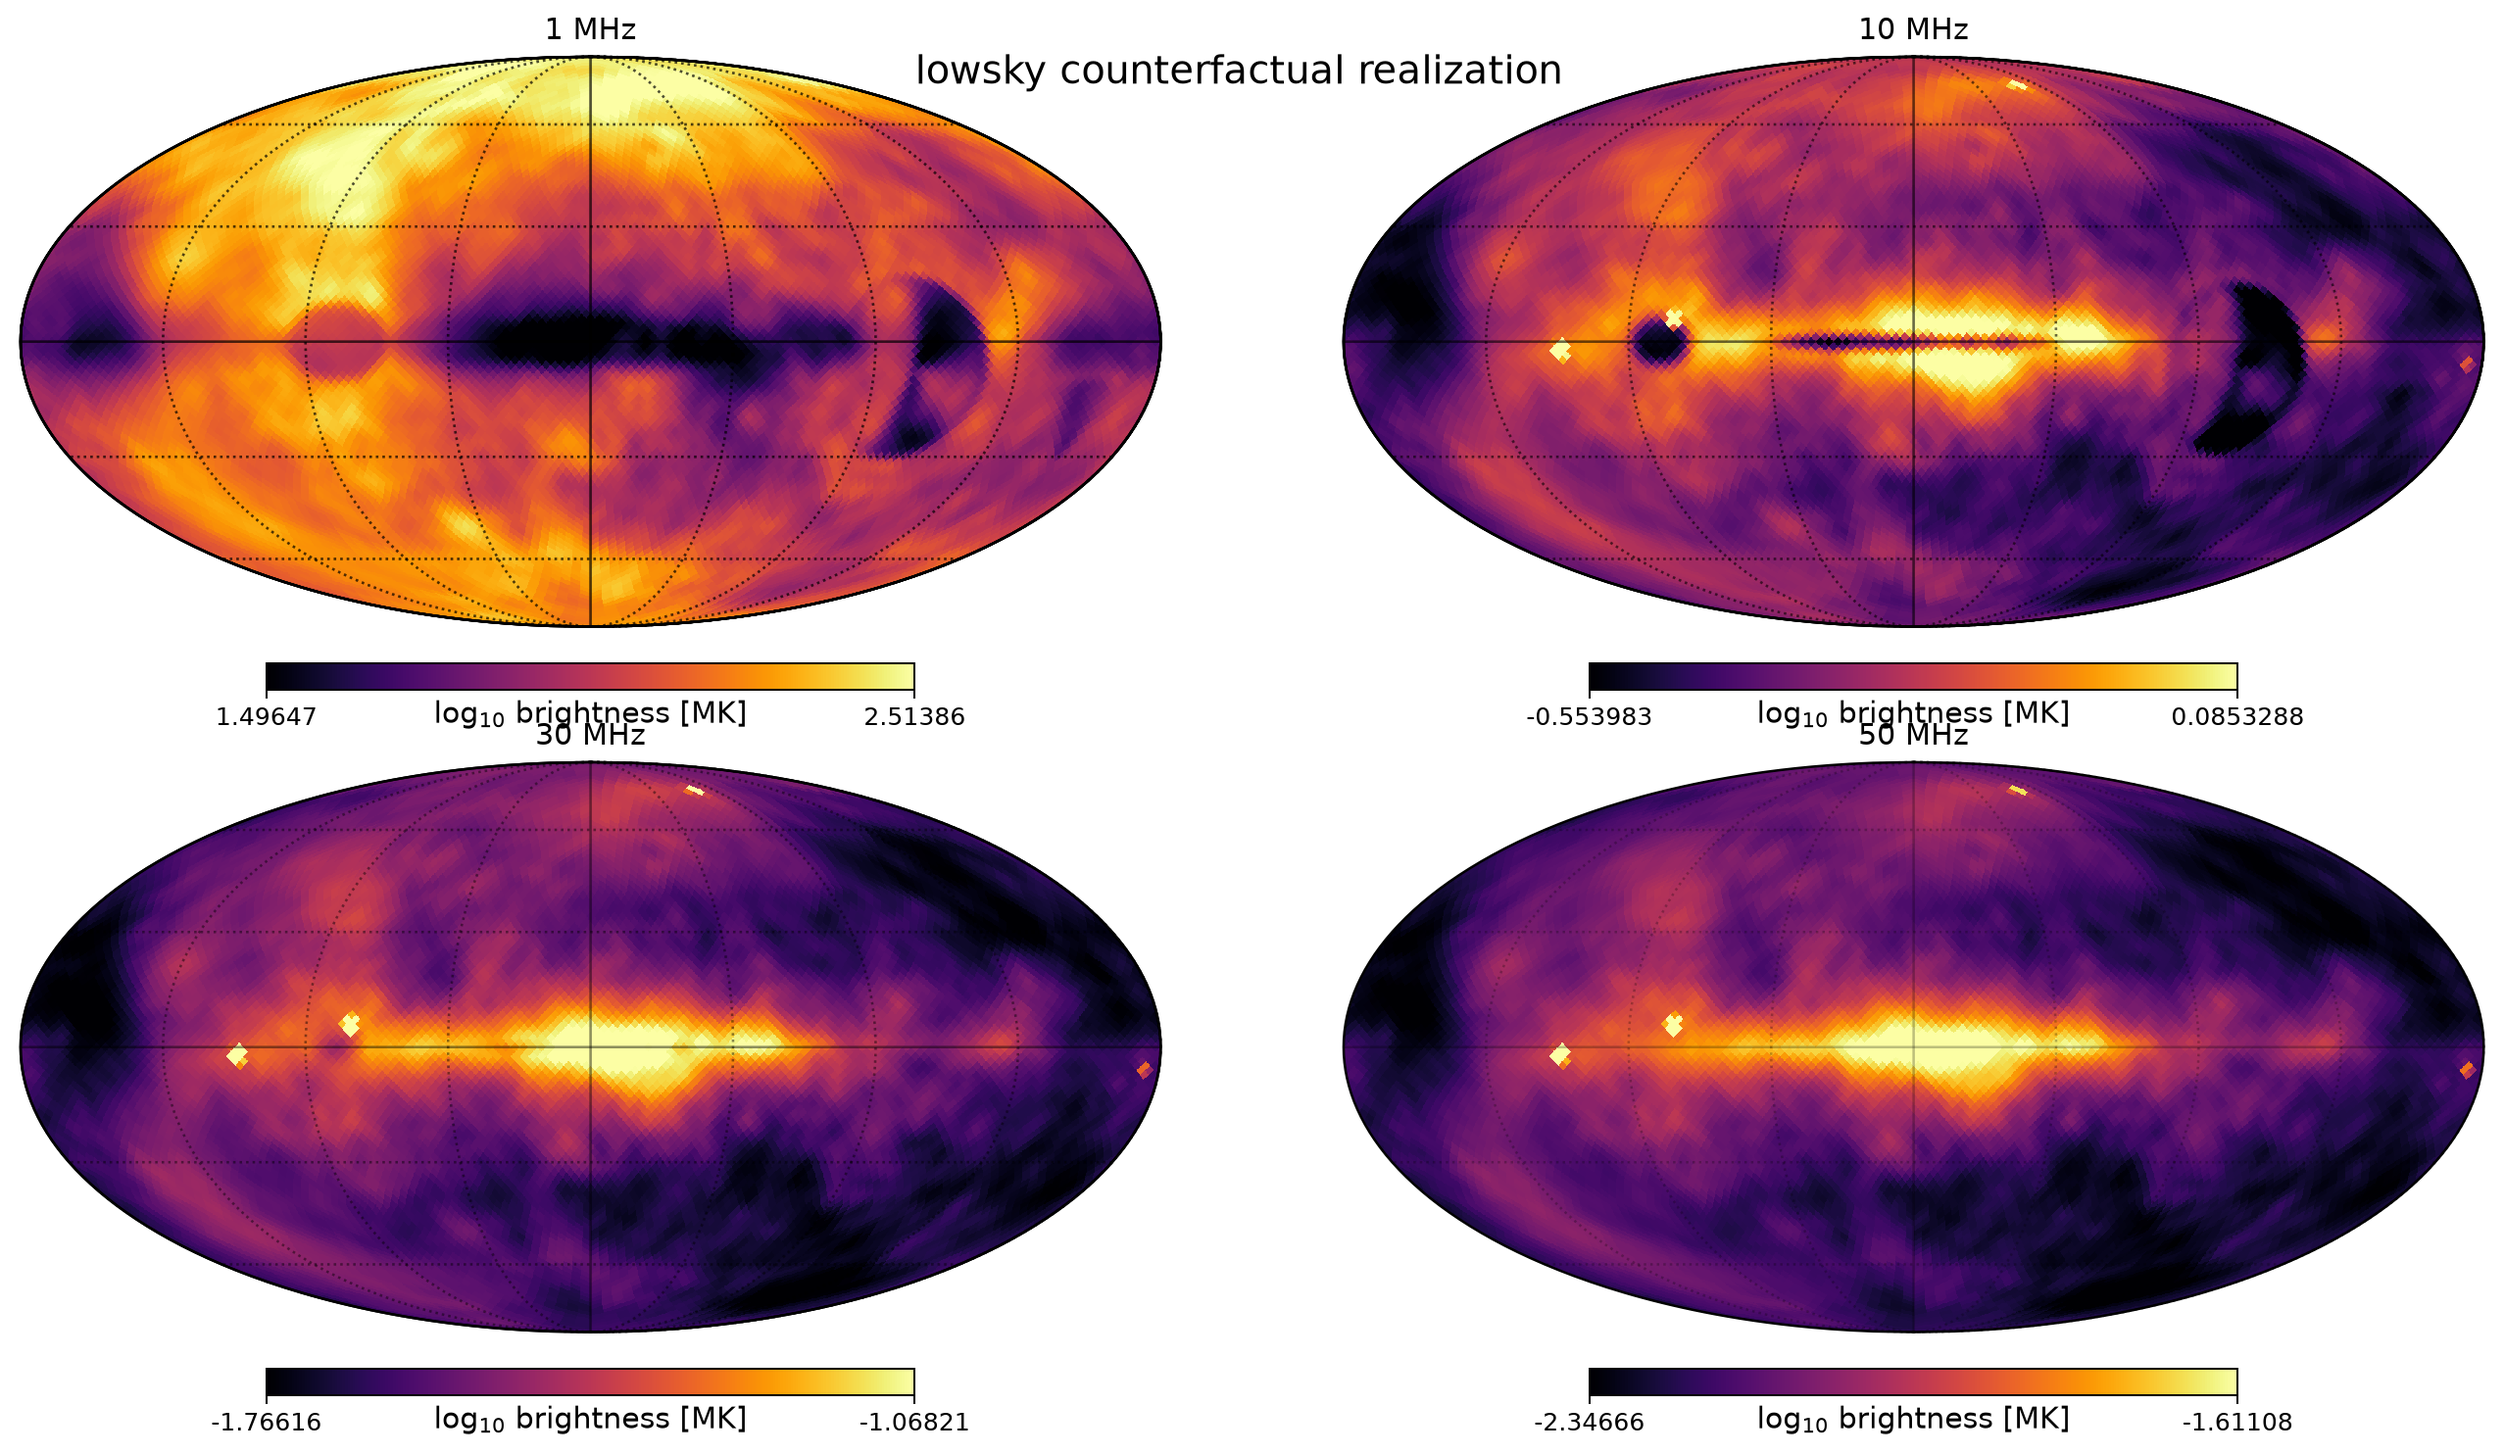
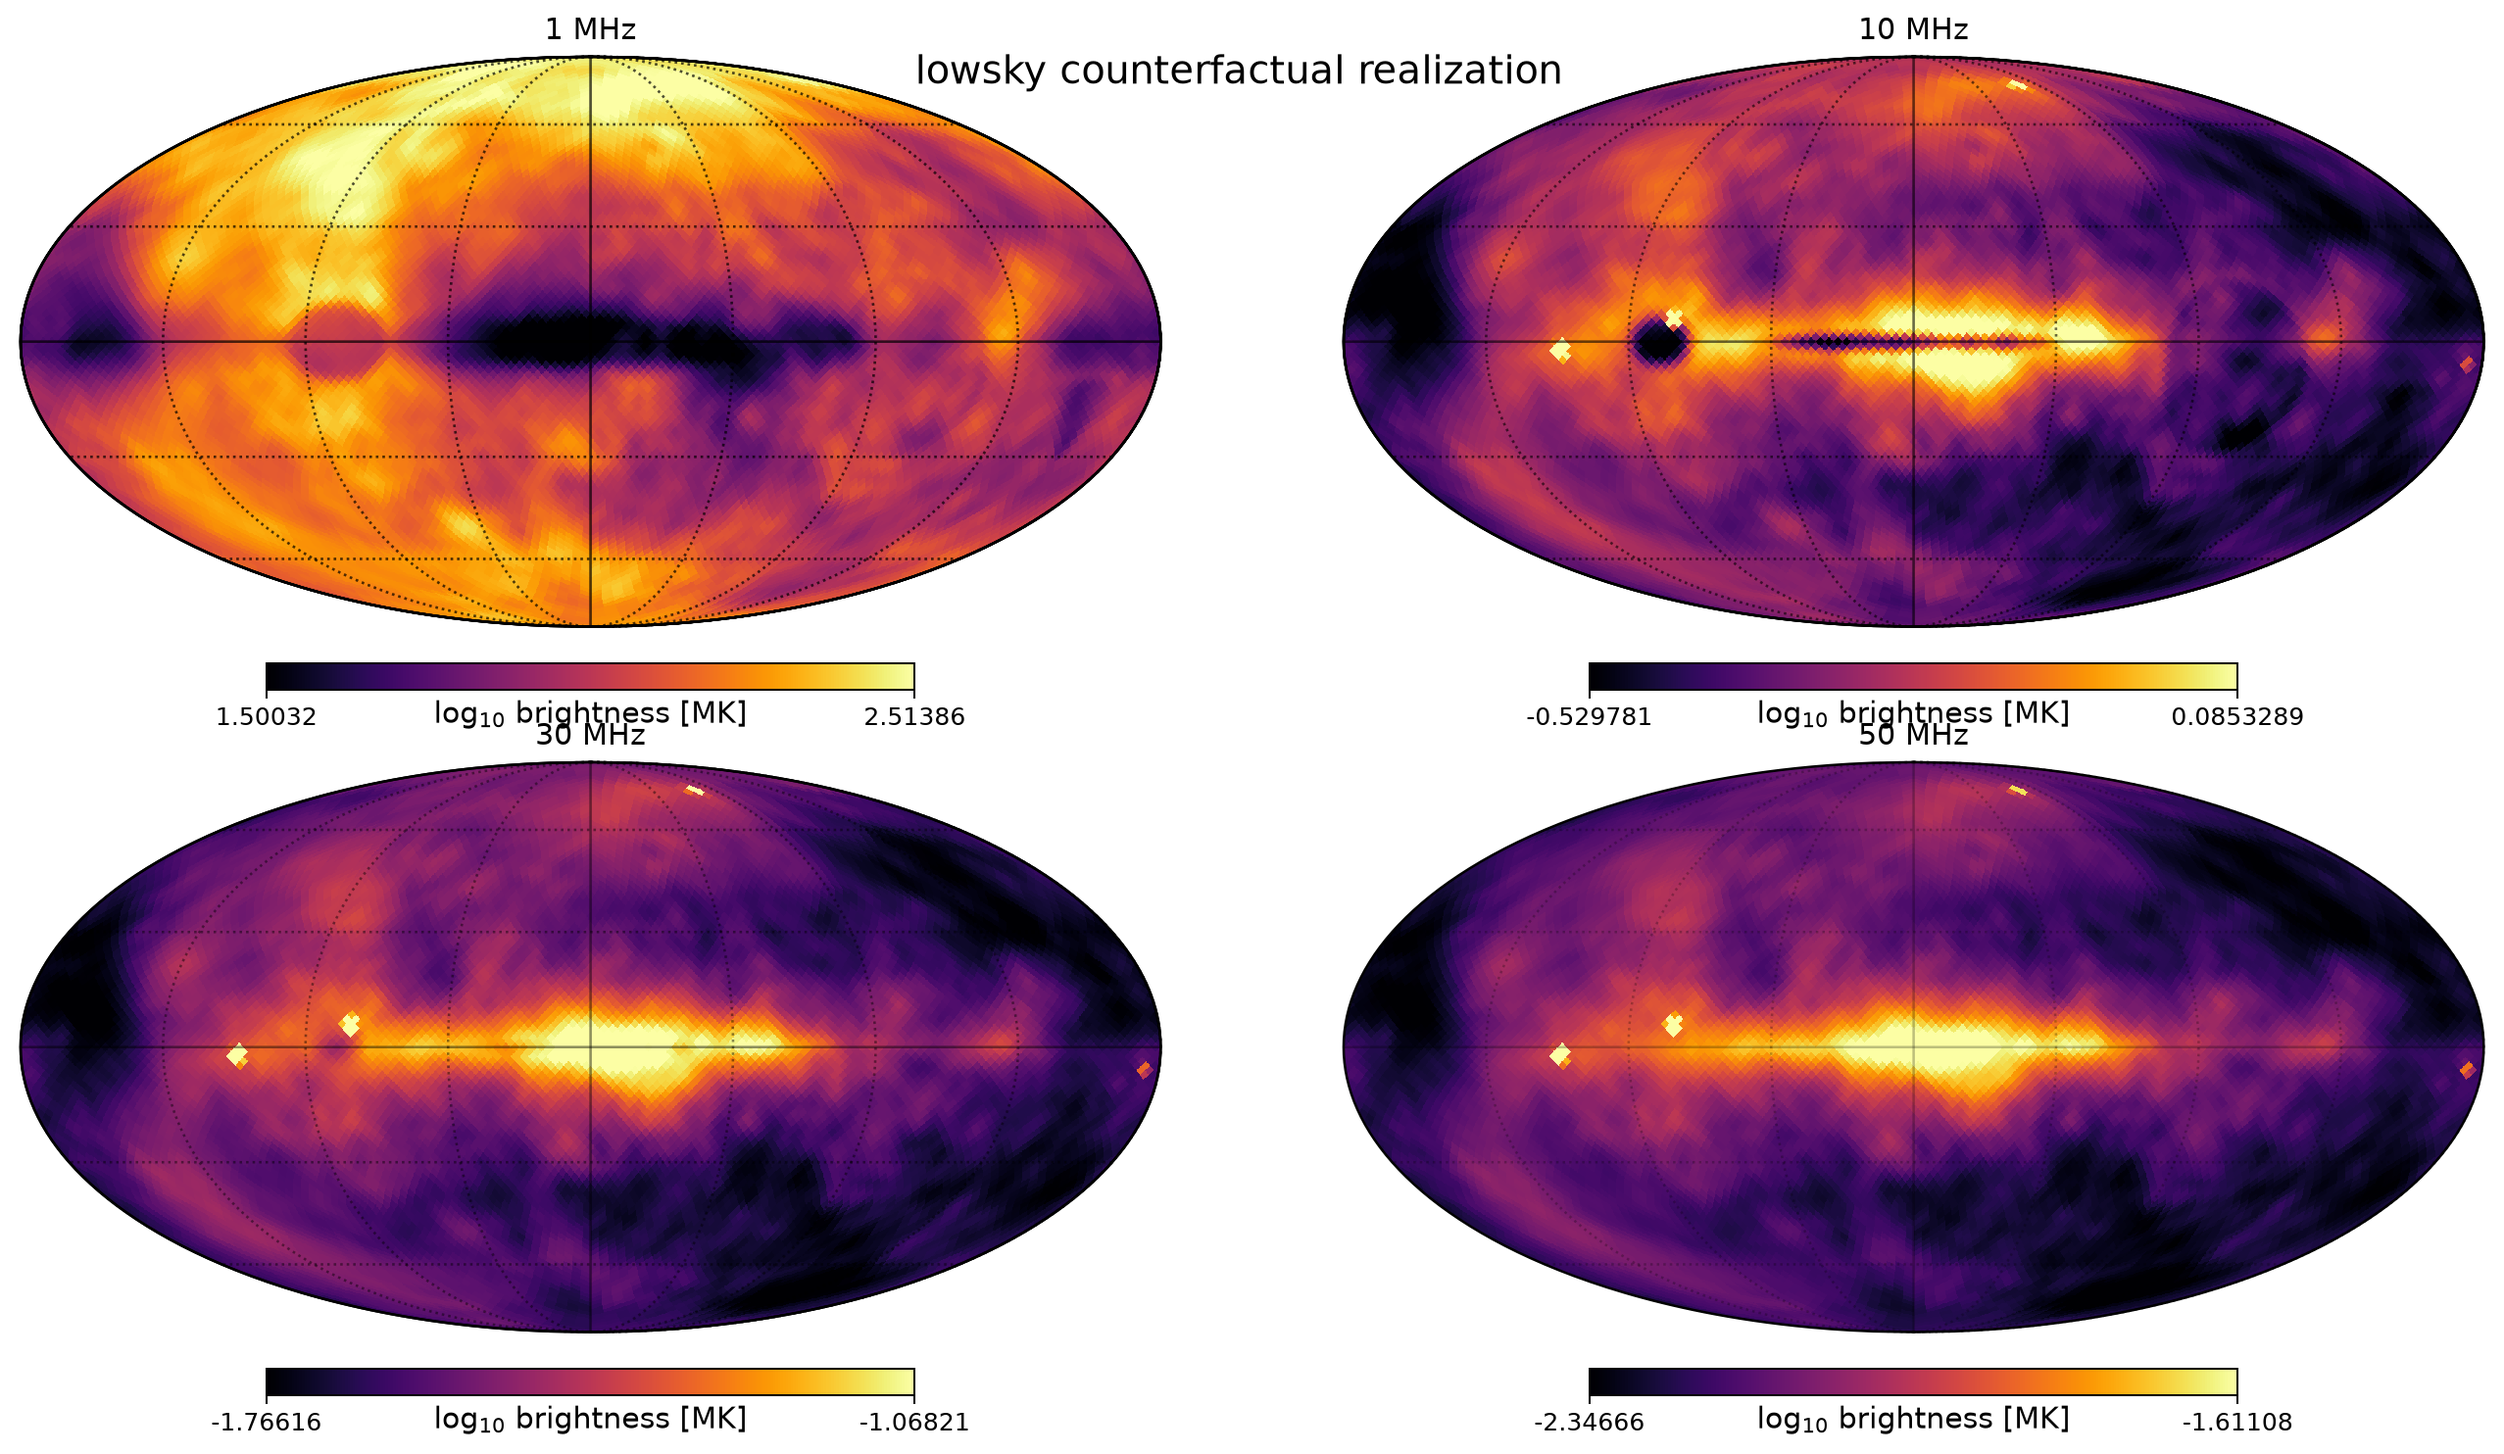
Soften Gum Nebula absorption morphology

Changed region(s): [[0.3401, 0.186, 0.402, 0.341], [0.8658, 0.186, 0.9276, 0.31], [0.0928, 0.465, 0.1237, 0.496]]

diff --git a/src/lowsky/validation.py b/src/lowsky/validation.py
@@ -64,18 +64,32 @@ def audit(output_dir: Path) -> dict[str, object]:
     }
     regional_em = {name: percentiles(values) for name, values in regions.items()}
     gum_mask = angular_mask(nside, 258.0, -6.6, 23.0)
+    gum_interior_mask = angular_mask(nside, 258.0, -6.6, 15.0)
+    gum_limb_mask = angular_mask(nside, 258.0, -6.6, 22.0) & ~angular_mask(
+        nside, 258.0, -6.6, 18.0
+    )
     gum_outer_mask = angular_mask(nside, 258.0, -6.6, 30.0) & ~angular_mask(
         nside, 258.0, -6.6, 25.0
     )
+    gum_effective_em = gum_em_clump * gum_covering * em_scale
     gum_screen = {
         "mean_effective_covering": float(np.mean(gum_covering[gum_mask])),
-        "fraction_covering_above_0p7": float(
-            np.mean(gum_covering[gum_mask] > 0.7)
+        "interior_covering_p10": float(
+            np.percentile(gum_covering[gum_interior_mask], 10.0)
+        ),
+        "interior_covering_p90": float(
+            np.percentile(gum_covering[gum_interior_mask], 90.0)
         ),
         "outer_annulus_mean_covering": float(np.mean(gum_covering[gum_outer_mask])),
         "outer_annulus_max_covering": float(np.max(gum_covering[gum_outer_mask])),
-        "clump_em_p95_pc_cm6": float(
-            np.percentile(gum_em_clump[gum_mask] * em_scale, 95.0)
+        "interior_effective_em_median_pc_cm6": float(
+            np.median(gum_effective_em[gum_interior_mask])
+        ),
+        "limb_effective_em_median_pc_cm6": float(
+            np.median(gum_effective_em[gum_limb_mask])
+        ),
+        "outside_effective_em_p95_pc_cm6": float(
+            np.percentile(gum_effective_em[gum_outer_mask], 95.0)
         ),
     }
     orion_mask = angular_mask(nside, 202.0, -38.0, 35.0)
@@ -159,15 +173,24 @@ def audit(output_dir: Path) -> dict[str, object]:
     checks = {
         "local_bubble_mean_140_200pc": 140.0 <= bubble["mean"] <= 200.0,
         "local_bubble_has_70_600pc_span": bubble["p05"] <= 120.0 and bubble["p99"] >= 600.0,
-        "gum_bright_clump_em_150_470": 150.0
-        <= gum_screen["clump_em_p95_pc_cm6"]
-        <= 470.0,
-        "gum_projected_covering_is_coherent": gum_screen[
-            "fraction_covering_above_0p7"
-        ] >= 0.35,
-        "gum_absorption_confined_to_23deg_shell": gum_screen[
-            "outer_annulus_max_covering"
-        ] <= 0.10,
+        "gum_covering_matches_clumpy_filling_prior": 0.20
+        <= gum_screen["mean_effective_covering"]
+        <= 0.40,
+        "gum_has_no_invented_high_covering_sector": gum_screen[
+            "interior_covering_p90"
+        ]
+        - gum_screen["interior_covering_p10"]
+        <= 0.12,
+        "gum_diffuse_interior_em_50_130": 50.0
+        <= gum_screen["interior_effective_em_median_pc_cm6"]
+        <= 130.0,
+        "gum_limb_em_150_300": 150.0
+        <= gum_screen["limb_effective_em_median_pc_cm6"]
+        <= 300.0,
+        "gum_outside_em_below_30": gum_screen[
+            "outside_effective_em_p95_pc_cm6"
+        ]
+        <= 30.0,
         "orion_em_not_uniform_or_saturated": regional_em["orion_eridanus"]["p95"] < 150.0,
         "orion_partial_covering_2_5_percent": 0.02
         <= orion_screen["mean_effective_covering"]

diff --git a/src/lowsky/pipeline.py b/src/lowsky/pipeline.py
@@ -625,9 +625,10 @@ def make_local_partial_screens(
     # and softness. Gum is first; the two nested Orion interfaces follow.
     specifications = (
         # Purcell et al. (2015): D~450 pc, R~160 pc and an 18.5-pc wall.
-        # Its coherent ionized wall can cover much of a degree-scale pixel,
-        # but the measured filling factor motivates non-unity coverage.
-        (258.0, -6.6, 0.45, 0.160, 0.0185, (1.00, 1.00, 1.00), 0.4, 4_200.0, 0.20, 0.98, 0.20, 0.20),
+        # Purcell's azimuthal profile is diffuse: EM is about 80 pc cm^-6 in
+        # the interior, peaks near 220 at the limb, and falls below 30 outside.
+        # The rate is the in-clump value; the measured f~0.3 is applied below.
+        (258.0, -6.6, 0.45, 0.160, 0.0185, (1.00, 1.00, 1.00), 0.4, 12_000.0, 0.20, 0.98, 0.20, 0.20),
         (198.0, -32.0, 0.25, 0.080, 0.008, (1.20, 0.86, 1.08), 2.1, 2_200.0, 0.00, 0.45, 0.95, 0.08),
         (205.0, -43.0, 0.33, 0.100, 0.012, (1.14, 0.90, 1.16), 4.0, 1_700.0, 0.00, 0.38, 0.95, 0.08),
     )
@@ -675,17 +676,31 @@ def make_local_partial_screens(
                 + 0.45 * np.sin(3.1 * ny - 1.4 * nz + 0.7 * phase)
                 + 0.30 * np.sin(2.6 * nz + 1.2 * nx - 0.4 * phase)
             )
-            arc_fraction = fmin + (fmax - fmin) / (
-                1.0
-                + np.exp(
-                    -np.clip(
-                        (surface_mode - cover_threshold) / cover_softness,
-                        -30.0,
-                        30.0,
+            if screen_index == 0:
+                # The fitted warm-gas filling factor is 0.3 (+0.3/-0.1), not
+                # evidence for a hand-selected 70--98% covering sector. Keep
+                # only gentle cloud-to-cloud modulation and taper continuously
+                # with the shell column. This preserves the observed bright
+                # limb without drawing a sharp geometric bite at 1 MHz.
+                cloud_modulation = np.clip(
+                    1.0 + 0.16 * np.tanh(surface_mode), 0.8, 1.2
+                )
+                column_presence = -np.expm1(-em / 25.0)
+                arc_fraction = 0.30 * cloud_modulation * column_presence
+            else:
+                arc_fraction = fmin + (fmax - fmin) / (
+                    1.0
+                    + np.exp(
+                        -np.clip(
+                            (surface_mode - cover_threshold) / cover_softness,
+                            -30.0,
+                            30.0,
+                        )
                     )
                 )
-            )
-            arc_fraction *= 1.0 / (1.0 + np.exp(-np.clip((em - 2.0) / 0.7, -30.0, 30.0)))
+                arc_fraction *= 1.0 / (
+                    1.0 + np.exp(-np.clip((em - 2.0) / 0.7, -30.0, 30.0))
+                )
             emission_measure[screen_index, start:stop] = em
             covering[screen_index, start:stop] = arc_fraction
             distance[screen_index, start:stop] = np.where(

diff --git a/test_counterfactual_ulsa.py b/test_counterfactual_ulsa.py
@@ -9,6 +9,7 @@ from counterfactual_ulsa import (
     _smooth_broken_power_law_scale,
     exact_ateam_alms,
     local_bubble_boundary_kpc,
+    make_local_partial_screens,
     make_local_shell_catalog,
     make_orion_partial_screens,
     make_random_fields,
@@ -79,6 +80,32 @@ def test_orion_filaments_are_thin_partial_covering_screens():
     assert 0.02 <= np.mean(effective_covering[aperture]) <= 0.05
     assert np.mean(effective_covering[aperture] > 0.25) <= 0.07
     assert np.all((distance > 0.0) & (distance < 0.651))
+
+
+def test_gum_screen_is_diffuse_without_an_invented_high_covering_sector():
+    config = SkyConfig(nside=32, ray_oversample=1, sky_mode="ours")
+    geometry = prepare_geometry(config)
+    emission_measure, covering, _distance = make_local_partial_screens(
+        config, geometry
+    )
+    vectors = np.asarray(
+        hp.ang2vec(geometry["l_deg"], geometry["b_deg"], lonlat=True)
+    )
+    center = np.asarray(hp.ang2vec(258.0, -6.6, lonlat=True))
+    separation = np.degrees(np.arccos(np.clip(vectors @ center, -1.0, 1.0)))
+    interior = separation < 15.0
+    inner_edge = (separation >= 20.0) & (separation < 22.0)
+    outer_edge = (separation >= 22.0) & (separation < 24.0)
+    exterior = (separation >= 24.0) & (separation < 26.0)
+
+    assert np.max(covering[0]) < 0.37
+    assert np.percentile(covering[0, interior], 90) - np.percentile(
+        covering[0, interior], 10
+    ) < 0.10
+    assert np.median(covering[0, inner_edge]) > np.median(
+        covering[0, outer_edge]
+    ) > np.median(covering[0, exterior])
+    assert np.percentile(emission_measure[0, inner_edge], 50) > 500.0
 
 
 def test_source_templates_have_unit_solid_angle_integral():

diff --git a/references/our_sky_conditioning.md b/references/our_sky_conditioning.md
@@ -64,10 +64,21 @@ a mean wall near 170 pc, ordinary directions spanning roughly 70--220 pc, a
 and Orion--Eridanus are broad, ellipsoidal 3D ionized
 interfaces integrated on a dedicated 2-pc radial grid. Gum uses the
 Purcell et al. center (l=258 deg, b=-6.6 deg), 450-pc distance, 160-pc radius,
-and 18.5-pc wall. Coherent sectors span roughly 0.2--0.98 projected covering
-at the 2-degree output scale, with the high-covering area comparable to the
-observed clean upper/central shell, and bright sectors in the measured
-220--470 pc cm^-6 range.
+and 18.5-pc wall. The radio-polarization fit's warm-gas filling factor
+f=0.3 (+0.3/-0.1) is used as the central unresolved-covering prior, with only
+gentle cloud-to-cloud modulation and a continuous column-density taper. We do
+not infer discrete high-covering sectors from the fit: Purcell et al. model
+only the relatively clean upper nebula, while the plane and lower nebula are
+explicitly described as confused. The normalization follows their azimuthal
+H-alpha profile: roughly 80 pc cm^-6 in the interior, a 220 pc cm^-6 limb,
+and no more than 30 pc cm^-6 outside.
+The fitted 22.7-degree circumference is an analytic shell boundary, not a
+resolved, uniformly sharp absorption mask. Purcell et al. explicitly restrict
+their fit to the clean upper nebula; the Galactic-plane and lower regions are
+confused by other HII regions, remnants, and the possibly separate IRAS Vela
+Shell. Woermann et al. also find a smaller, asymmetric expanding neutral shell
+(10.5-degree mean and 14-degree maximum radius), reinforcing that the phases
+and outlines should not be collapsed into one crisp disk.
 Orion--Eridanus uses two overlapping, much more sparsely covering shell
 pieces across its observed 150--250 pc depth rather than one wall. Cygnus X is
 a degree-scale sub-grid surrogate centered at 1.45 kpc and normalized to the
